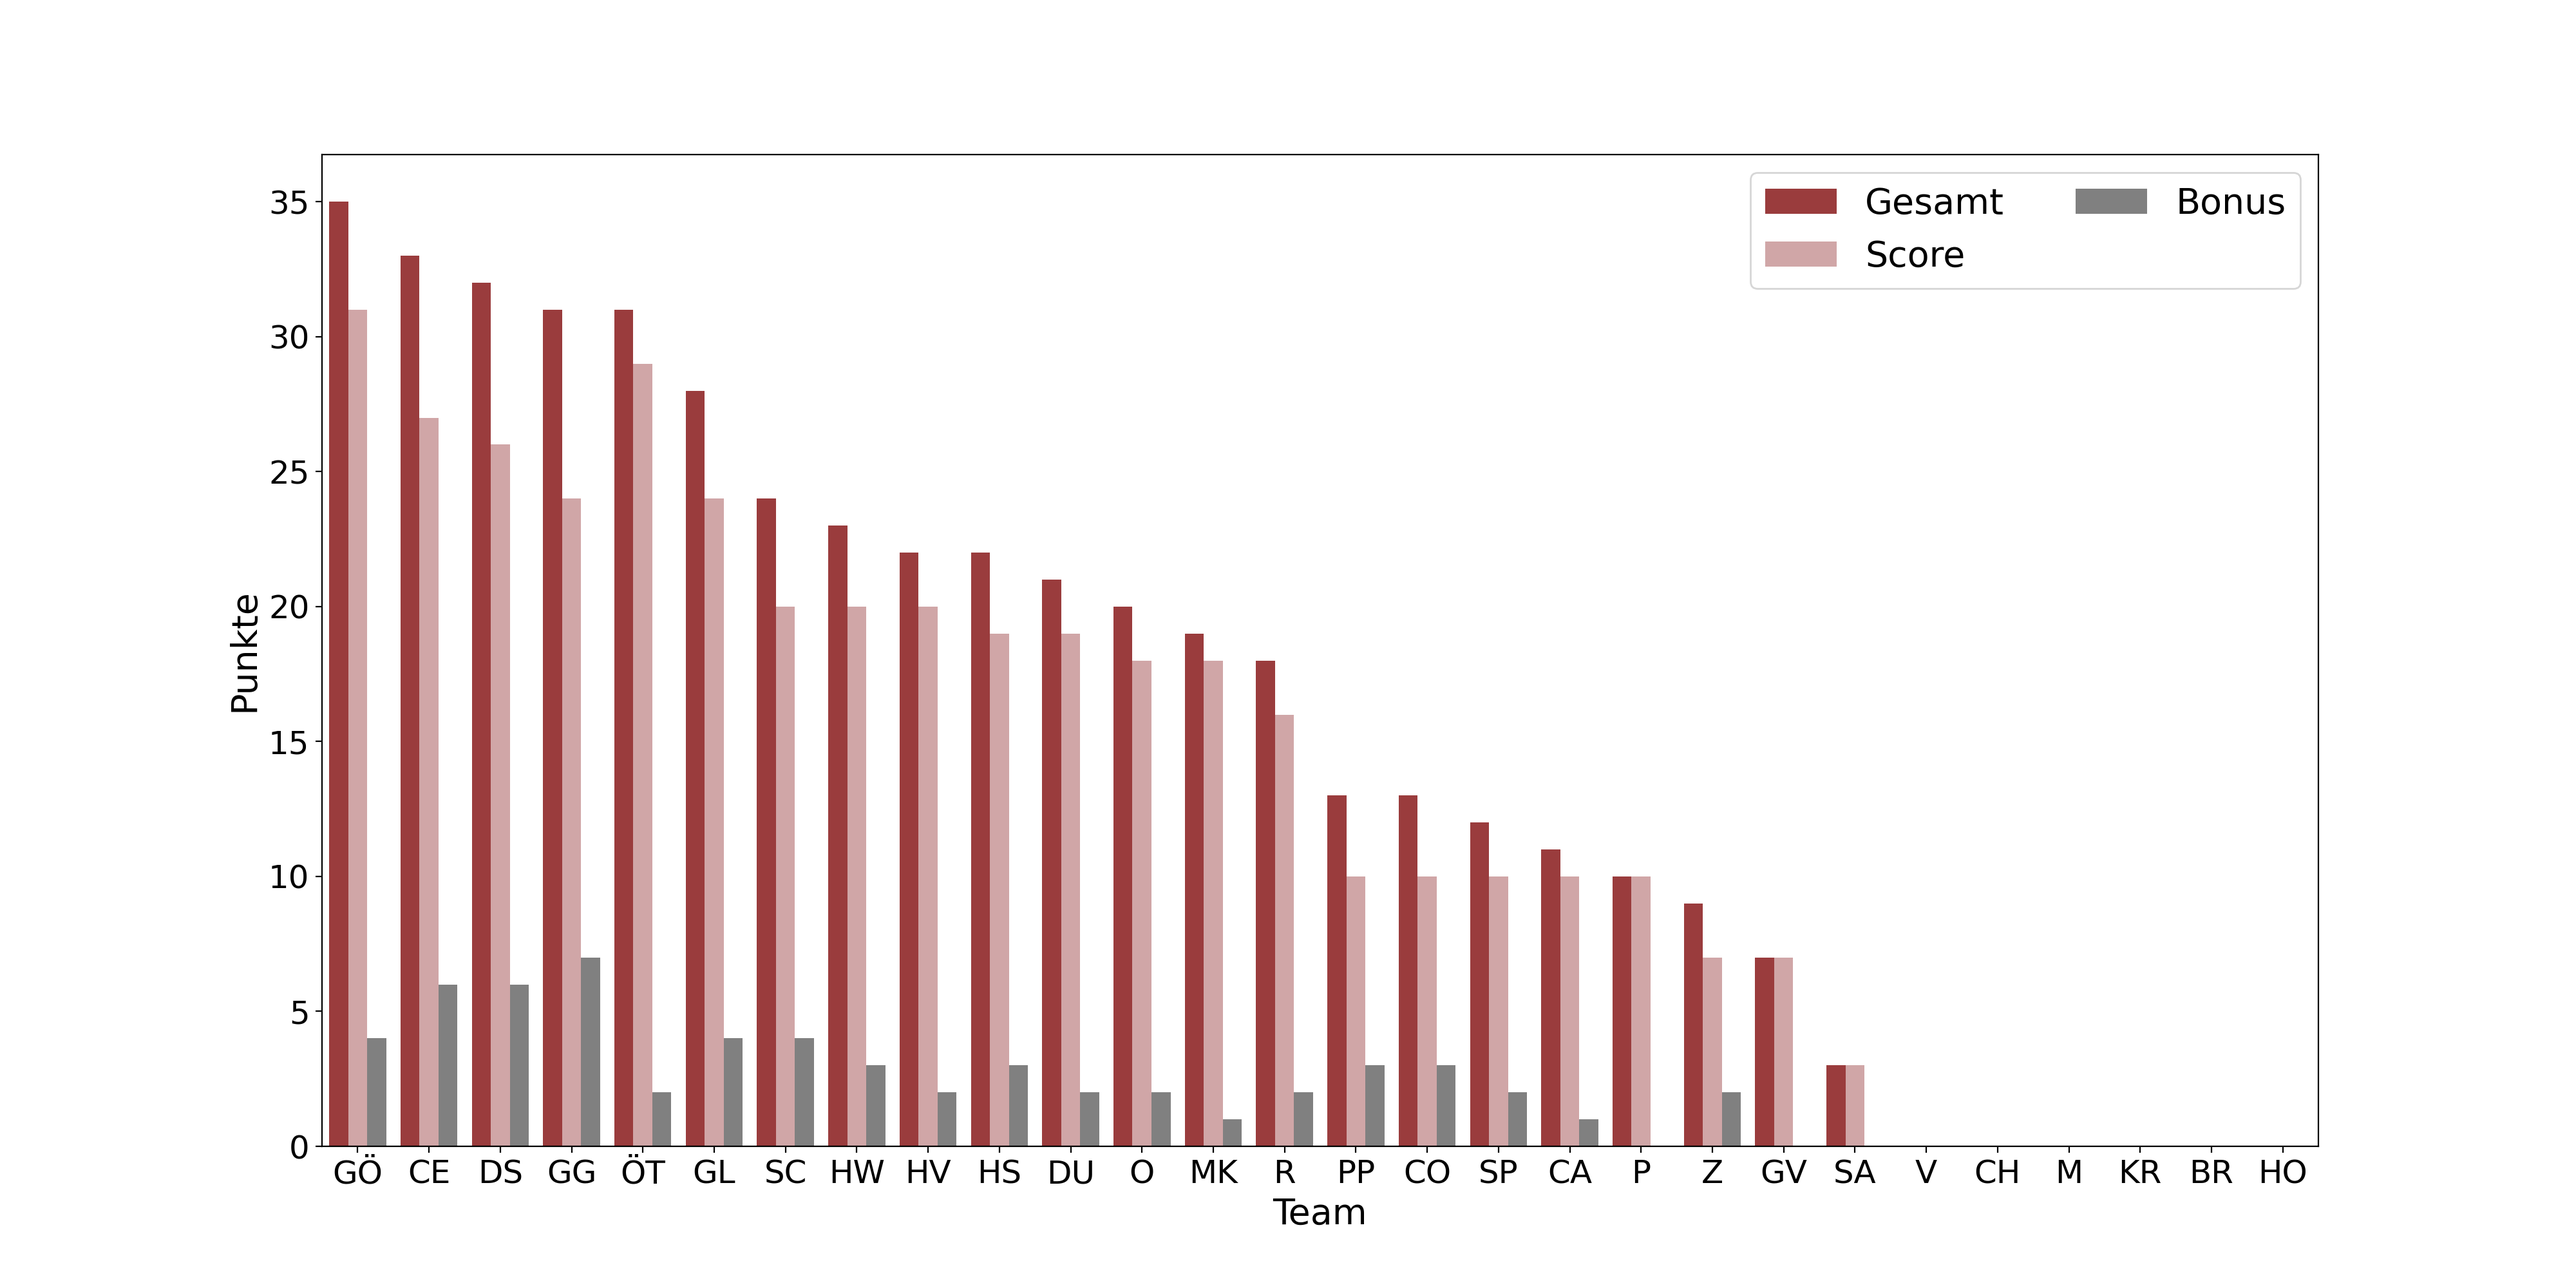
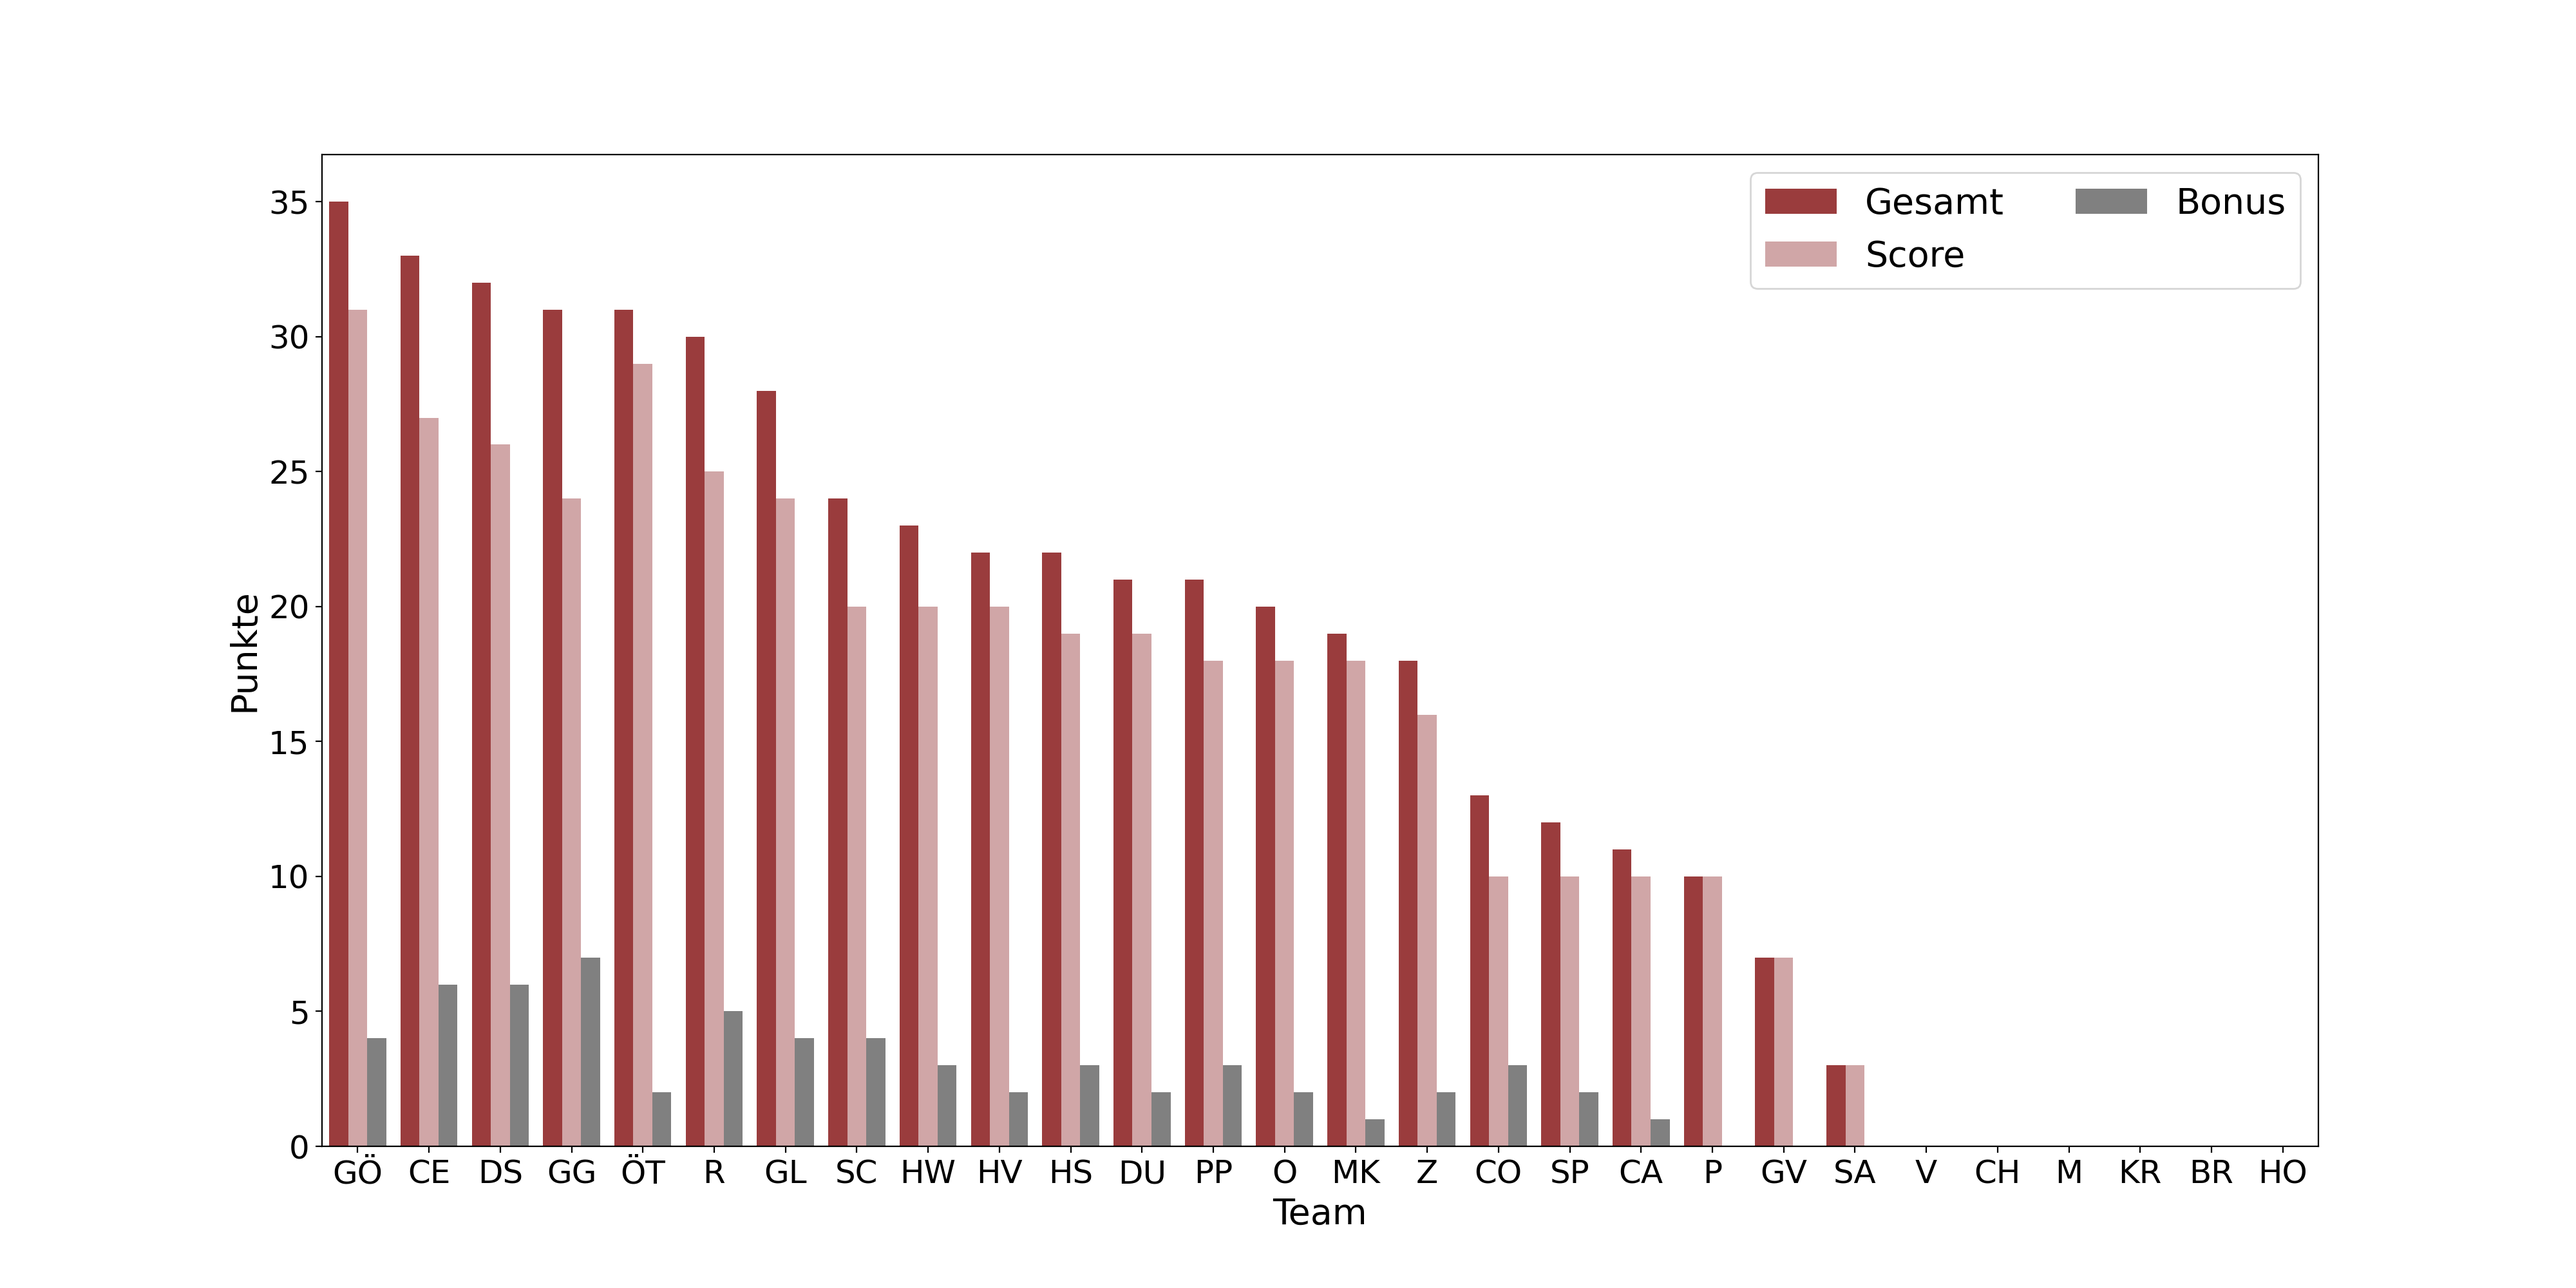
update

diff --git a/css/style_teams.css b/css/style_teams.css
@@ -12,7 +12,7 @@
             background-color: #bde0fe
         }
         .GL {
-            order: 5
+            order: 6
         }
         .GL .team__all-points::after{
             content: "28"
@@ -31,7 +31,7 @@
             background-color: #daeaf6
         }
         .O {
-            order: 11
+            order: 13
         }
         .O .team__all-points::after{ 
             content: " 20"
@@ -39,10 +39,10 @@
 
 
         .Z .team__score::after {
-            content: "7/120"
+            content: "16/120"
         }
         .Z .team__stations::after {
-            content: "2/12"
+            content: "3/12"
         }
         .Z .team__bonus::after {
             content: "2/36"
@@ -51,10 +51,10 @@
             background-color: #9bd0b7
         }
         .Z {
-            order: 19
+            order: 15
         }
         .Z .team__all-points::after{
-            content: "9"
+            content: "18"
         }
 
 
@@ -112,7 +112,7 @@
             background-color: #d6eadf
         }
         .DU {
-            order: 10
+            order: 11
         }
         .DU .team__all-points::after{
             content: "21"
@@ -234,7 +234,7 @@
             background-color: #9d8189
         }
         .SC {
-            order: 6
+            order: 7
         }
         .SC .team__all-points::after{
             content: "24"
@@ -274,7 +274,7 @@
             background-color: #9cadce
         }
         .MK {
-            order: 12
+            order: 14
         }
         .MK .team__all-points::after{
             content: "19"
@@ -314,7 +314,7 @@
             background-color: #5d5b6a
         }
         .P {
-            order: 18
+            order: 19
         }
         .P .team__all-points::after{
             content: "10"
@@ -322,22 +322,22 @@
 
 
         .R .team__score::after {
-            content: "16/120"
+            content: "25/120"
         }
         .R .team__stations::after {
-            content: "2/12"
+            content: "3/12"
         }
         .R .team__bonus::after {
-            content: "2/36"
+            content: "5/36"
         }
         .R .team__logo {
             background-color: #ffafcc
         }
         .R {
-            order: 13
+            order: 5
         }
         .R .team__all-points::after{
-            content: "18"
+            content: "30"
         }
 
 
@@ -355,7 +355,7 @@
             background-color: #efe9ae
         }
         .HS {
-            order: 9
+            order: 10
         }
         .HS .team__all-points::after{
             content: "22"
@@ -384,10 +384,10 @@
 
 
         .PP .team__score::after {
-            content: "10/120"
+            content: "18/120"
         }
         .PP .team__stations::after {
-            content: "2/12"
+            content: "3/12"
         }
         .PP .team__bonus::after {
             content: "3/36"
@@ -396,10 +396,10 @@
             background-color: #7ec4cf
         }
         .PP {
-            order: 14
+            order: 12
         }
         .PP .team__all-points::after{
-            content: "13"
+            content: "21"
         }
 
         
@@ -416,7 +416,7 @@
             background-color: #758184
         }
         .HW {
-            order: 7
+            order: 8
         }
         .HW .team__all-points::after{
             content: "23"
@@ -456,7 +456,7 @@
             background-color: #ff6663
         }
         .CO {
-            order: 15
+            order: 16
         }
         .CO .team__all-points::after{
             content: "13"
@@ -476,7 +476,7 @@
             background-color: #b8e0d2
         }
         .HV {
-            order: 8
+            order: 9
         }
         .HV .team__all-points::after{
             content: "22"
@@ -516,7 +516,7 @@
             background-color: #ffc8dd
         }
         .CA {
-            order: 17
+            order: 18
         }
         .CA .team__all-points::after{
             content: "11"
@@ -535,7 +535,7 @@
             background-color: #f6bc66
         }
         .SP {
-            order: 16
+            order: 17
         }
         .SP .team__all-points::after{
             content: "12"

diff --git a/css/style_station.css b/css/style_station.css
@@ -12,7 +12,7 @@
         }
 
         .D .station__teams::after {
-            content: "2/28"
+            content: "5/28"
         }
 
         .E .station__teams::after {
